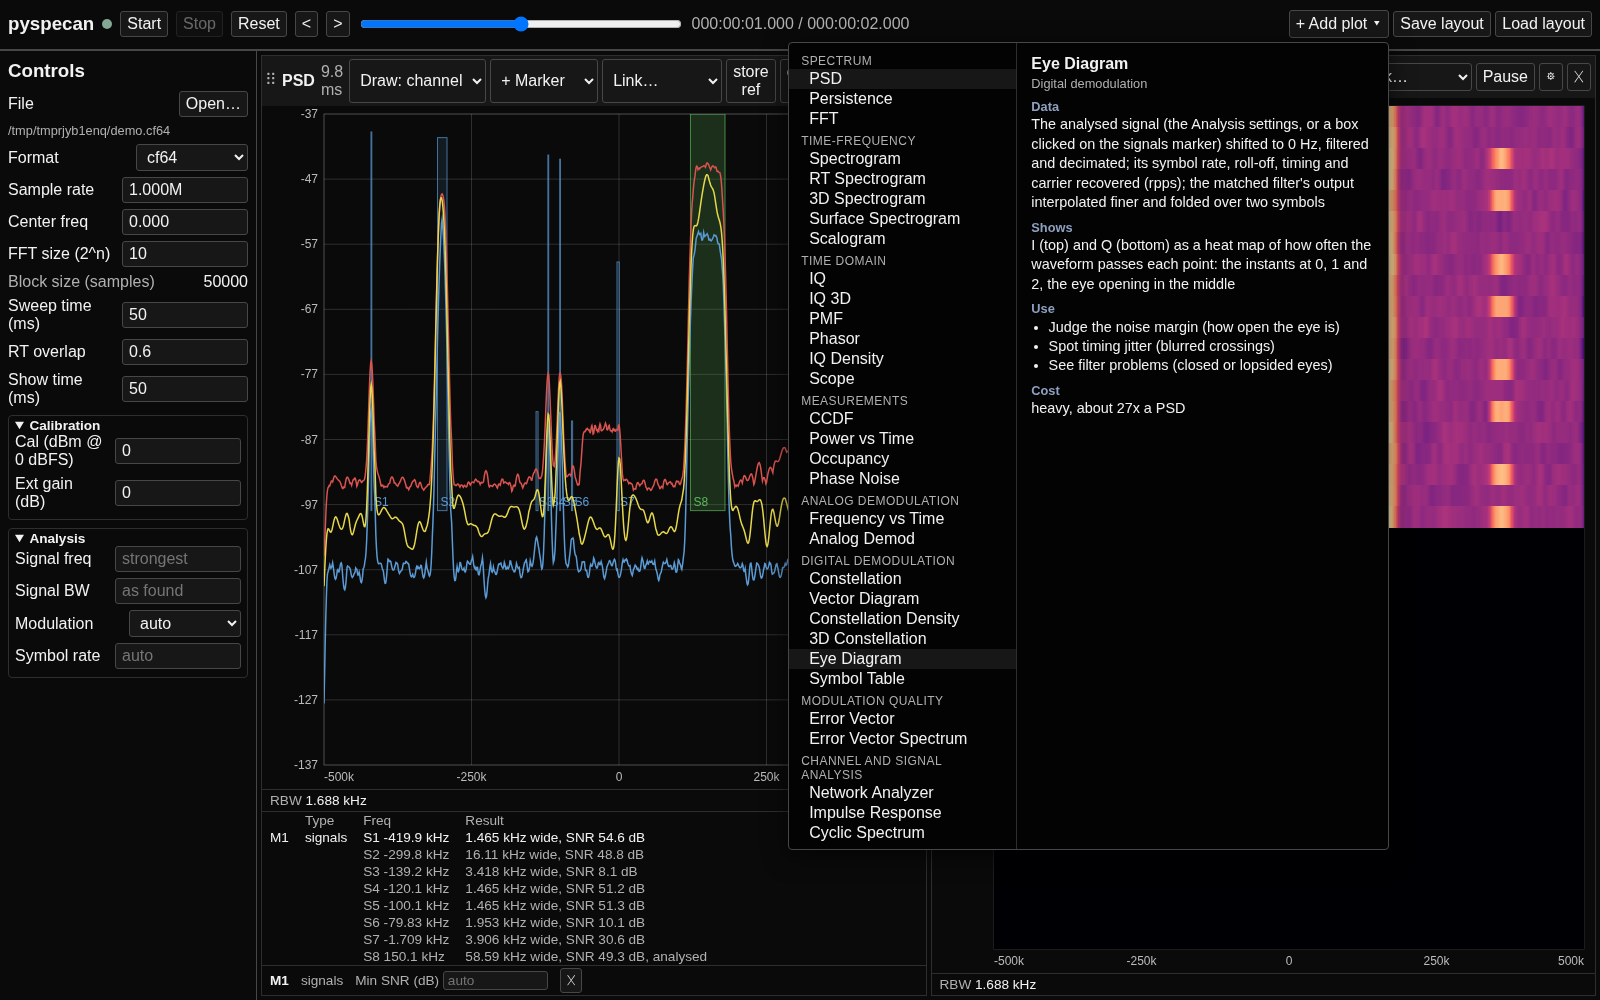
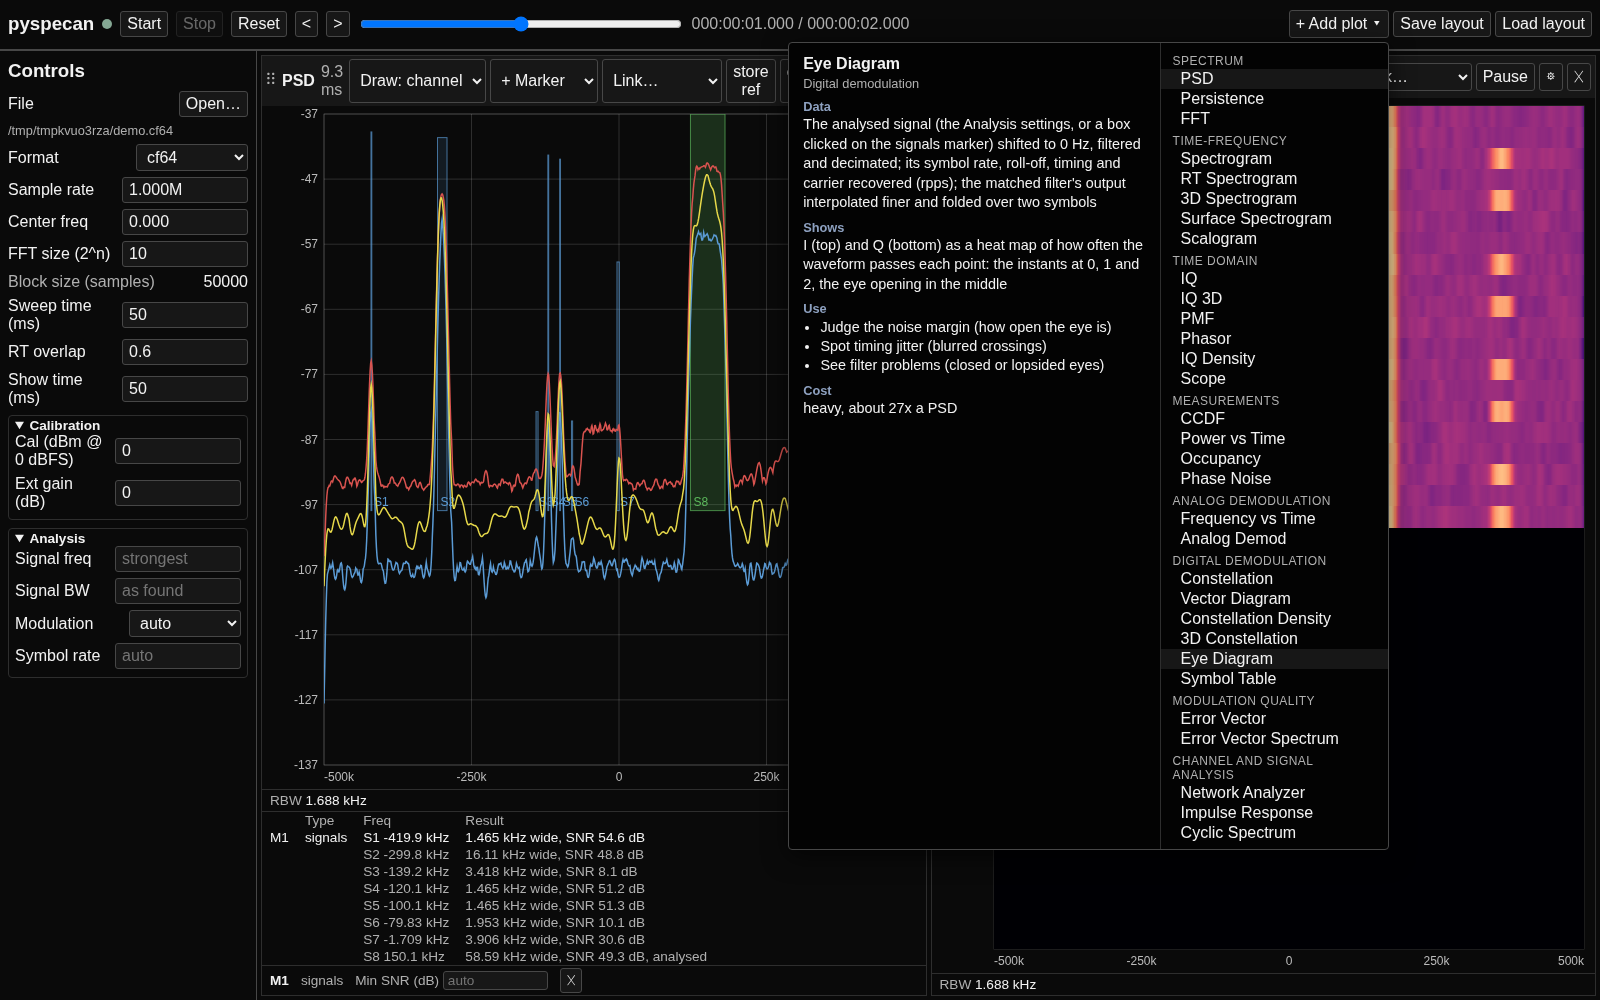
Plot picker: the list under the button, the description card to its left

Changed region(s): [[0.5, 0.031, 0.8438, 0.837], [0.0312, 0.124, 0.0938, 0.155]]

diff --git a/src/pyspecan/view/WEB/static/styles.css b/src/pyspecan/view/WEB/static/styles.css
@@ -187,10 +187,11 @@ dialog .dlg-actions { text-align: right; }
 .pyspecan .add-menu { position: relative; display: inline-block; }
 .pyspecan .add-menu-panel {
     position: absolute; right: 0; top: calc(100% + 4px); z-index: 20; display: flex; gap: 0;
+    flex-direction: row-reverse; /* the list under the button, the card beside it on the left */
     background: var(--bg-dark); border: 1px solid var(--border); border-radius: 4px; box-shadow: 0 6px 24px rgb(0 0 0 / 60%);
     max-height: calc(100vh - 70px);
 }
-.pyspecan .add-menu-list { overflow-y: auto; padding: 6px 0; min-width: 14em; border-right: 1px solid var(--border-muted); }
+.pyspecan .add-menu-list { overflow-y: auto; padding: 6px 0; min-width: 14em; border-left: 1px solid var(--border-muted); }
 .pyspecan .add-menu-cat { padding: 5px 12px 1px; font-size: 0.75rem; text-transform: uppercase; letter-spacing: 0.04em; color: var(--text-muted); }
 .pyspecan .add-menu-item {
     display: block; width: 100%; text-align: left; border: none; border-radius: 0; background: none; padding: 1px 12px 1px 20px;
